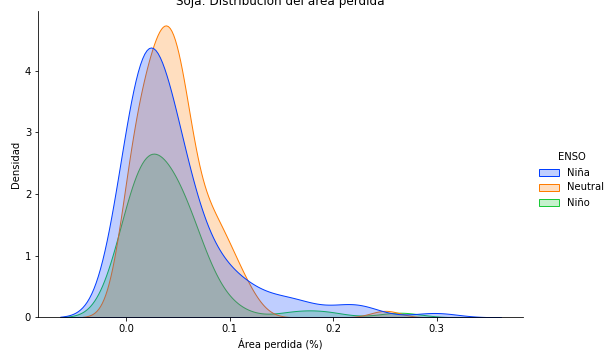
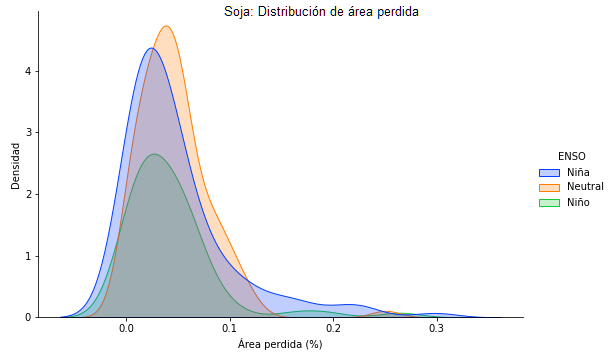
distribuciones

Changed region(s): [[0.279, 0.0, 0.6819, 0.0611]]

diff --git a/README.md b/README.md
@@ -12,7 +12,7 @@ Para determinar los distintos escenarios de sequía y sus consecuencias sobre el
 
 ![Distribución de rendimientos de soja](./Graphs/Rinde_soja_por_enso.png)
 
-![Distribución del área perdida de maíz](./Graphs/Area_perdida_maíz_por_enso.png)
+![Distribución del área perdida de soja](./Graphs/Area_perdida_soja_por_enso.png)
 
 Seleccionando únicamente las campañas afectadas por la niña, se calculó el rinde y el porcentaje de área perdida mínima, máxima y media por cada zona PAS. Luego, a las estimaciones de área sembrada 2021/22 se les aplicaron los resultados obtenidos para llegar a la producción de los distintos escenarios teniendo en cuenta las siguientes definiciones:
 
